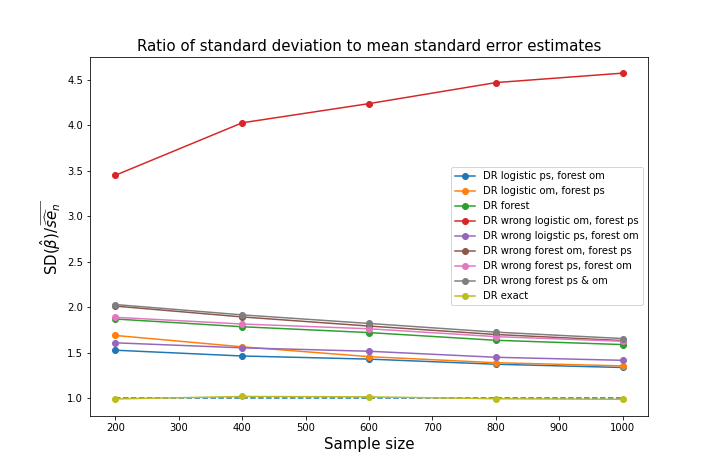
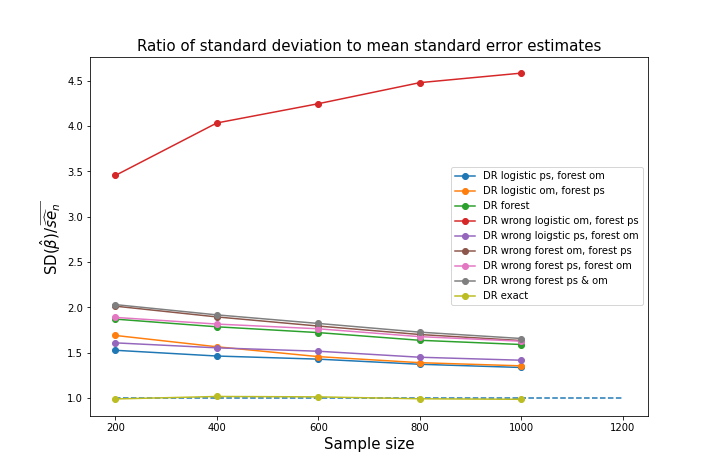
Adding RF illustration

diff --git a/Code/DR_estimation.py b/Code/DR_estimation.py
@@ -27,7 +27,7 @@ def RF_crossval(Xtrain, ytrain, Xtest,):
     
     # Choose the values of the number of decision trees, their depth and 
     # the maximum number of descriptors (features) randomly chosen at each split that I want to test out with GridSearchCV
-    n_estimators = np.arange(100,4000,200)
+    n_estimators = np.arange(600,1001,200)
     max_depth = np.arange(10,31,5)
     max_features = np.arange(1,int(Xtrain.shape[1])+1,1)
     

diff --git a/Code/randomforest_DR.py b/Code/randomforest_DR.py
@@ -23,7 +23,7 @@ Y =np.random.binomial(1, expit(0.2*A-W1 + 2*np.multiply(W1,W2)), 1000000)
 B_true = np.mean(expit(0.2-W1+ 2*np.multiply(W1,W2)))
 
 iters = 2500
-N = [200*i for i in range(1,6)]
+N = [200*i for i in range(1,7)]
 
 estimates = np.zeros((9,iters,len(N)))
 CI = 1.0*estimates
